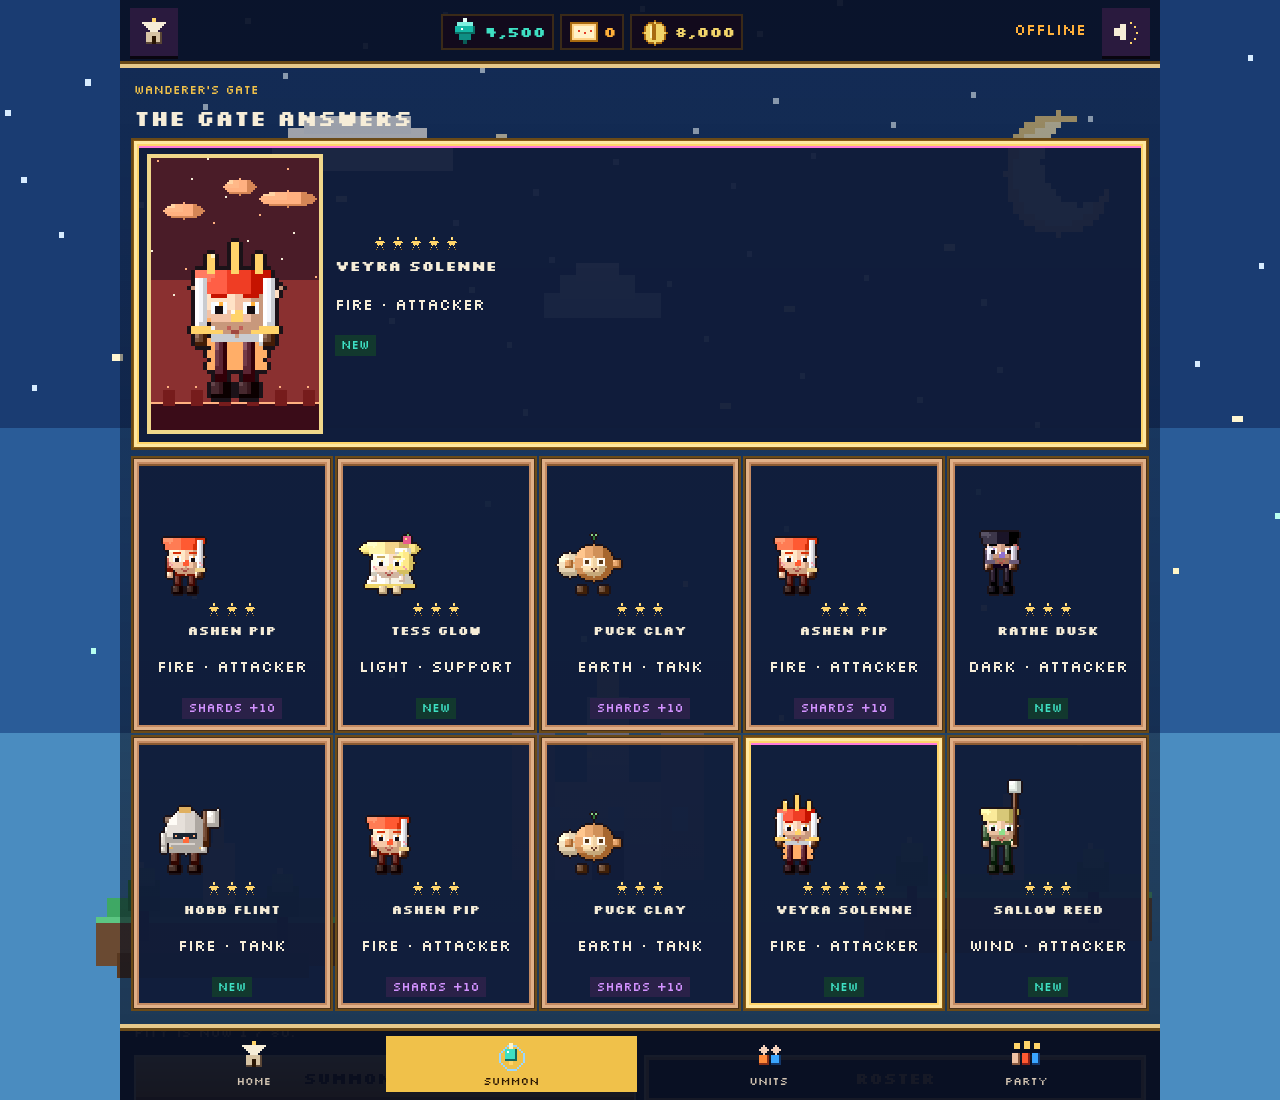
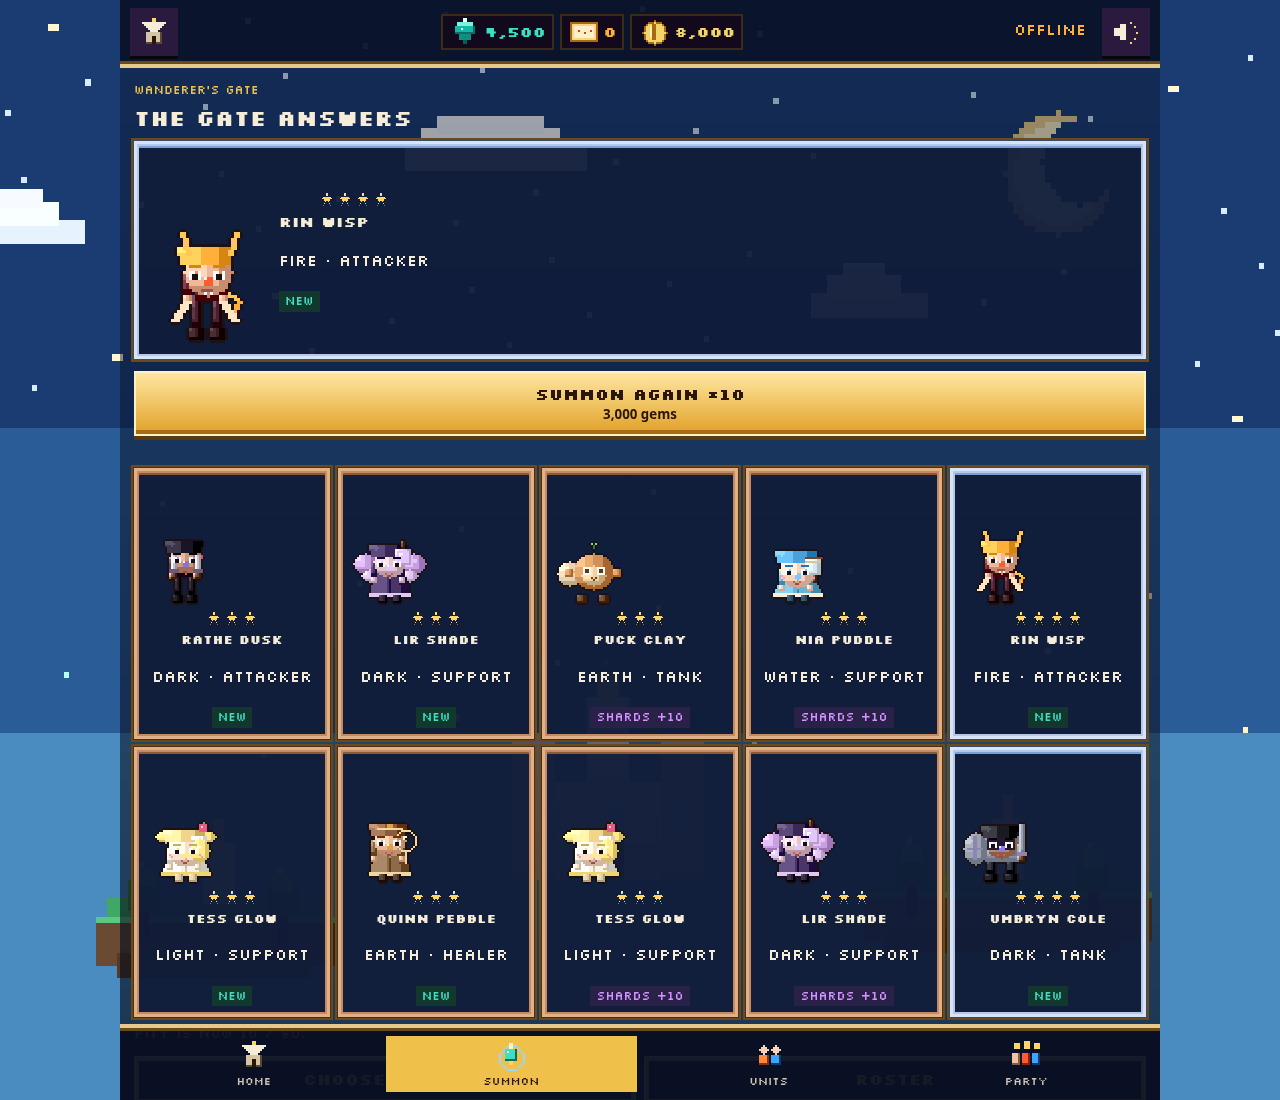
Let a summon result pull the same gate again.
The results screen shows the ticket or gem cost and starts that pull immediately. Tapping the animation skips it.

Changed region(s): [[0.0938, 0.0927, 0.9062, 0.9273], [0.0, 0.1545, 0.0625, 0.2473], [0.2812, 0.5873, 0.3125, 0.6182]]

diff --git a/aetherfall/js/ui.js b/aetherfall/js/ui.js
@@ -2,7 +2,7 @@ import { adminBan, adminGrant, adminLog, adminSearch, adminUnban, currentSession
 import { blip, powerup, rarityFanfare, resume, setMuted, summonCharge } from "./audio.js";
 import { AWAKEN_COST, COST_1, COST_10, MAX_AWAKEN, MAX_LEVEL, PITY_AT } from "./balance.js";
 import { playSummon } from "./fx.js";
-import { payForPull, pull, rateTable, resolvePull } from "./gacha.js";
+import { againOffer, payForPull, pull, rateTable, resolvePull } from "./gacha.js";
 import { leaderBonus, levelCost, partyPower, sortRoster, tryLevelUp, unitPower, unitStats } from "./progress.js";
 import { paint } from "./pixel.js";
 import { loadSave, resetSave, writeSave } from "./save.js";
@@ -310,10 +310,11 @@ function viewResults(pack) {
         pullTag(best),
       ),
     ),
+    againButton(pack),
     h("div", { class: "results", id: "results" }, ...pack.presentation.map((row) => resultCard(row))),
     h("p", { class: "fine", text: `Pity is now ${state.save.pity[pack.banner.id]} / ${PITY_AT}.` }),
     h("div", { class: "row" },
-      h("button", { class: "btn", type: "button", text: "Summon again", onclick: () => { state.results = null; draw(); } }),
+      h("button", { class: "btn ghost", type: "button", text: "Choose a gate", onclick: () => { state.results = null; draw(); } }),
       h("button", { class: "btn ghost", type: "button", text: "Roster", onclick: () => go("units") }),
     ),
   );
@@ -338,6 +339,25 @@ function rateBlock(banner) {
       h("span", { text: `Pity ${pity} / ${table.pity}` }),
       h("div", { class: "bar", "aria-hidden": "true" }, h("i", { style: `width:${(pity / table.pity) * 100}%` })),
     ),
+  );
+}
+
+function againButton(pack) {
+  const count = pack.count === 1 ? 1 : 10;
+  const offer = againOffer(count, state.save);
+  return h("button", {
+    class: "btn summon-again",
+    id: "summon-again",
+    type: "button",
+    disabled: !offer.ok,
+    onclick: () => {
+      if (!offer.ok || state.pulling) return;
+      state.bannerId = pack.banner.id;
+      void doPull(count);
+    },
+  },
+    h("span", { text: offer.label }),
+    h("small", { text: offer.detail }),
   );
 }
 
@@ -381,39 +401,45 @@ function noteAccountProblem(res) {
 }
 
 async function doPull(count) {
+  if (state.pulling) return;
   const banner = BANNERS.find((row) => row.id === state.bannerId);
-  if (state.mode === "online") {
-    const res = await summonOnline(banner.id, count);
-    if (!res.ok) {
-      if (noteAccountProblem(res)) return;
-      toast(res.error || "The gate did not answer.");
-      return;
-    }
-    applyRemote(res.save);
-    state.results = { banner, presentation: res.presentation };
-    playFx(res.presentation);
-    return;
-  }
   const payment = payForPull(state.save, count);
   if (!payment.ok) {
     toast("Not enough gems.");
     return;
   }
-  const rolled = pull({
-    count,
-    pity: state.save.pity[banner.id] || 0,
-    rng: Math.random,
-    banner,
-    catalog: UNITS,
-  });
-  const resolved = resolvePull(state.save.units, rolled.results, UNITS);
-  state.save.gems = payment.gems;
-  state.save.tickets = payment.tickets;
-  state.save.pity[banner.id] = rolled.pityAfter;
-  state.save.units = resolved.owned;
-  writeSave(state.save);
-  state.results = { banner, presentation: resolved.presentation };
-  playFx(resolved.presentation);
+  state.pulling = true;
+  try {
+    if (state.mode === "online") {
+      const res = await summonOnline(banner.id, count);
+      if (!res.ok) {
+        if (noteAccountProblem(res)) return;
+        toast(res.error || "The gate did not answer.");
+        return;
+      }
+      applyRemote(res.save);
+      state.results = { banner, count, presentation: res.presentation };
+      playFx(res.presentation);
+      return;
+    }
+    const rolled = pull({
+      count,
+      pity: state.save.pity[banner.id] || 0,
+      rng: Math.random,
+      banner,
+      catalog: UNITS,
+    });
+    const resolved = resolvePull(state.save.units, rolled.results, UNITS);
+    state.save.gems = payment.gems;
+    state.save.tickets = payment.tickets;
+    state.save.pity[banner.id] = rolled.pityAfter;
+    state.save.units = resolved.owned;
+    writeSave(state.save);
+    state.results = { banner, count, presentation: resolved.presentation };
+    playFx(resolved.presentation);
+  } finally {
+    state.pulling = false;
+  }
 }
 
 function finishFx() {
@@ -430,10 +456,23 @@ function playFx(presentation) {
   const root = document.getElementById("modal-root");
   const canvas = h("canvas", { class: "pixel", id: "fx-canvas", "aria-hidden": "true" });
   const best = presentation.reduce((max, row) => Math.max(max, row.rarity), 3);
-  root.replaceChildren(h("div", { class: "fx-layer", id: "fx-layer" },
+  root.replaceChildren(h("div", {
+    class: "fx-layer",
+    id: "fx-layer",
+    role: "button",
+    tabindex: "0",
+    "aria-label": "Skip summon",
+    onclick: () => finishFx(),
+    onkeydown: (event) => {
+      if (event.key === "Enter" || event.key === " ") {
+        event.preventDefault();
+        finishFx();
+      }
+    },
+  },
     canvas,
-    h("p", { class: "fx-caption", text: best >= 5 ? "The Vein breaks open." : "Light gathers in the crystal." }),
-    h("button", { class: "btn ghost", id: "skip-summon", type: "button", text: "Skip", onclick: finishFx }),
+    h("p", { class: "fx-caption", text: best >= 5 ? "The Vein breaks open. Tap to skip." : "Light gathers in the crystal. Tap to skip." }),
+    h("button", { class: "btn ghost", id: "skip-summon", type: "button", text: "Skip", onclick: (event) => { event.stopPropagation(); finishFx(); } }),
   ));
   state.fxStop = playSummon(canvas, presentation, {
     onBurst: (rarity) => {

diff --git a/aetherfall/test/gacha.test.js b/aetherfall/test/gacha.test.js
@@ -1,7 +1,7 @@
 import assert from "node:assert/strict";
 import test from "node:test";
 import { AWAKEN_COST, COST_1, COST_10, MAX_AWAKEN, PITY_AT, RATES, SHARDS, START_GEMS, START_GOLD, START_TICKETS } from "../js/balance.js";
-import { applyCopy, payForPull, pickUnit, pull, rarityFromRoll, rateTable, resolvePull } from "../js/gacha.js";
+import { againOffer, applyCopy, payForPull, pickUnit, pull, rarityFromRoll, rateTable, resolvePull } from "../js/gacha.js";
 import { levelCost, partyPower, tryLevelUp, unitPower, unitStats } from "../js/progress.js";
 import { defaultSave, normalizeSave } from "../js/save.js";
 import { BANNERS, STARTER_IDS, UNITS, unitById } from "../js/units.js";
@@ -197,6 +197,23 @@ test("two copies of a new unit in one pull unlock then convert", () => {
   assert.equal(resolved.presentation[1].isNew, false);
   assert.equal(resolved.presentation[1].shardsAdded, SHARDS[3]);
   assert.equal(resolved.owned.tess.owned, true);
+});
+
+test("summon again offers the ticket or the gem price", () => {
+  const withTicket = againOffer(10, { gems: 0, tickets: 1 });
+  assert.equal(withTicket.ok, true);
+  assert.equal(withTicket.label, "Summon again ×10");
+  assert.equal(withTicket.detail, "1 Tenfold Ticket");
+  const withGems = againOffer(10, { gems: 4500, tickets: 0 });
+  assert.equal(withGems.ok, true);
+  assert.equal(withGems.detail, "3,000 gems");
+  const broke = againOffer(10, { gems: 2999, tickets: 0 });
+  assert.equal(broke.ok, false);
+  assert.equal(broke.detail, "Not enough gems");
+  const single = againOffer(1, { gems: 300, tickets: 5 });
+  assert.equal(single.ok, true);
+  assert.equal(single.label, "Summon again ×1");
+  assert.equal(single.detail, "300 gems");
 });
 
 test("tickets pay for a 10-pull and singles always cost gems", () => {

diff --git a/aetherfall/js/gacha.js b/aetherfall/js/gacha.js
@@ -106,6 +106,14 @@ export function resolvePull(owned, results, catalog) {
   return { owned: nextOwned, presentation };
 }
 
+export function againOffer(count, wallet) {
+  const payment = payForPull(wallet, count);
+  const label = count === 10 ? "Summon again ×10" : "Summon again ×1";
+  if (!payment.ok) return { ok: false, label, detail: "Not enough gems" };
+  const shown = payment.method === "ticket" ? "1 Tenfold Ticket" : `${Number(payment.cost).toLocaleString("en-US")} gems`;
+  return { ok: true, label, detail: shown, method: payment.method };
+}
+
 export function payForPull(wallet, count) {
   if (count !== 1 && count !== 10) return { ok: false, reason: "bad count" };
   if (count === 10 && wallet.tickets > 0) {

diff --git a/aetherfall/css/aetherfall.css b/aetherfall/css/aetherfall.css
@@ -630,6 +630,24 @@ h3 { margin: 0; font-size: 0.92rem; }
   flex-direction: column;
   gap: 12px;
   background: #07040e;
+  cursor: pointer;
+}
+
+.summon-again {
+  width: 100%;
+  min-height: 64px;
+  margin: 4px 0 12px;
+  position: sticky;
+  bottom: calc(84px + env(safe-area-inset-bottom));
+  z-index: 4;
+}
+
+.summon-again:disabled {
+  opacity: 1;
+  background: #3a2a12;
+  color: #ffb03a;
+  border-color: #ffb03a;
+  box-shadow: inset 0 0 0 2px #ffb03a;
 }
 
 .fx-caption { margin: 0; color: var(--gold); }
